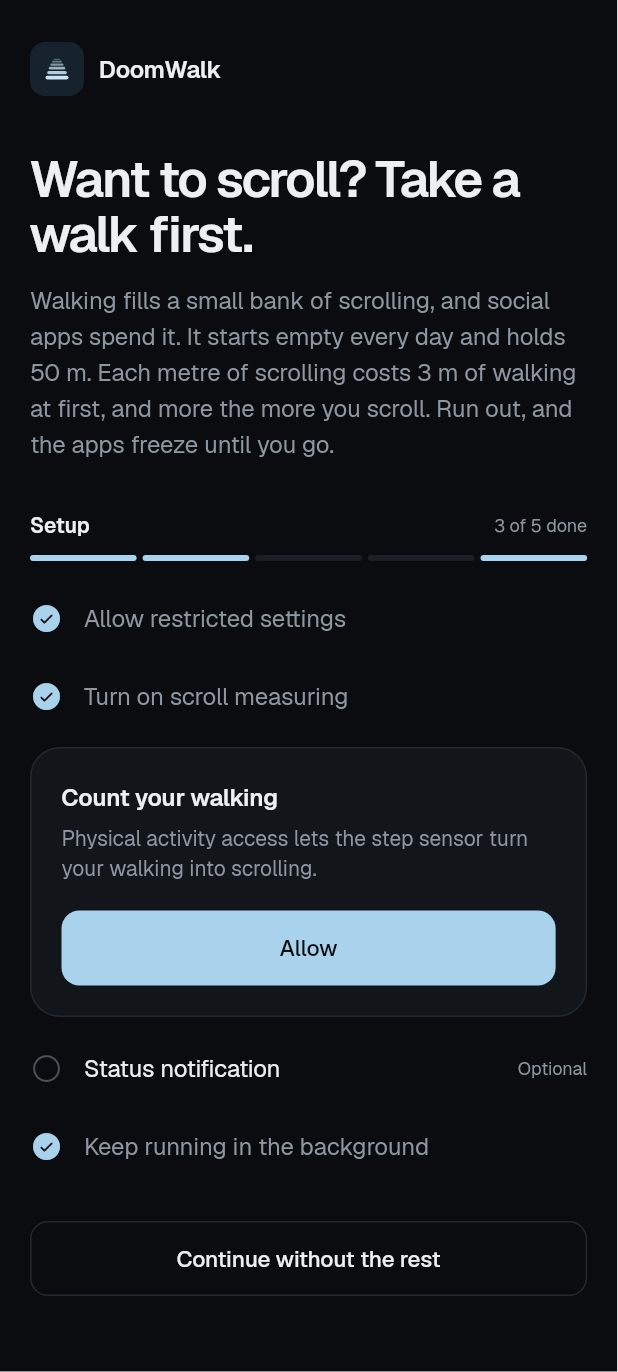
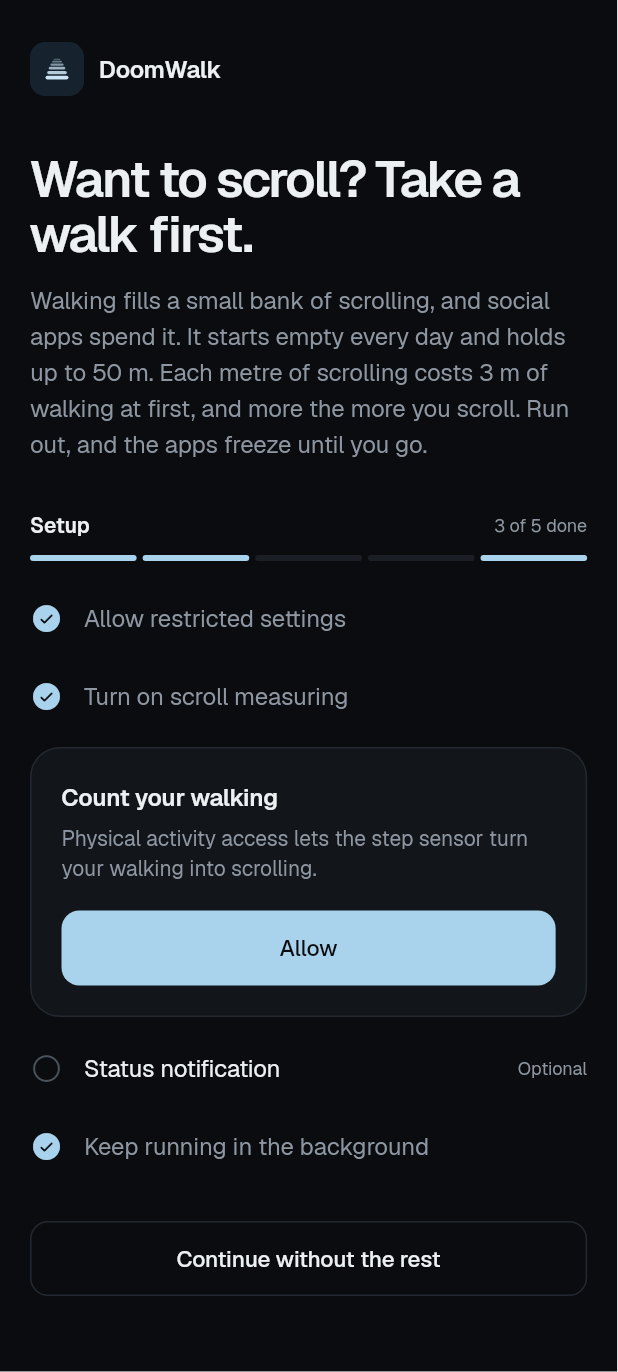
App copy: the bank holds up to the cap
Claude-Session: https://claude.ai/code/session_01GqksnMMaqzuhLtbB8jWPgR

Changed region(s): [[0.0615, 0.2449, 0.9223, 0.3367]]

diff --git a/lib/ui/onboarding_screen.dart b/lib/ui/onboarding_screen.dart
@@ -187,7 +187,7 @@ class _OnboardingScreenState extends ConsumerState<OnboardingScreen> with Widget
             const SizedBox(height: 14),
             Text(
               'Walking fills a small bank of scrolling, and social apps spend it. It starts empty every day and '
-              'holds ${formatRound(_c.bankCapM)}. Each metre of scrolling costs ${formatRound(_c.config.startPrice)} '
+              'holds up to ${formatRound(_c.bankCapM)}. Each metre of scrolling costs ${formatRound(_c.config.startPrice)} '
               'of walking at first, and more the more you scroll. Run out, and the apps freeze until you go.',
               style: t.bodyLarge?.copyWith(color: context.colors.muted),
             ),

diff --git a/lib/ui/home_screen.dart b/lib/ui/home_screen.dart
@@ -624,7 +624,7 @@ class LedgerView extends StatelessWidget {
       children: [
         Text('How it works', style: t.titleLarge),
         const SizedBox(height: 8),
-        rule(Ph.footprints, 'Walking fills your bank. It starts empty each day and holds ${formatRound(cfg.bankCapM)}.'),
+        rule(Ph.footprints, 'Walking fills your bank. It starts empty each day and holds up to ${formatRound(cfg.bankCapM)}.'),
         rule(Ph.squaresFour, 'Scrolling spends it. When it\'s empty, apps freeze until you walk.'),
         rule(Ph.lightning, 'The more you scroll today, the more walking each metre costs:'),
         const SizedBox(height: 4),

diff --git a/lib/ui/intro_stories.dart b/lib/ui/intro_stories.dart
@@ -241,7 +241,7 @@ List<_Slide> _buildSlides(WalletConfig c) {
     _Slide(
       title: 'Walking fills a small bank',
       body:
-          'It starts empty every day and holds $cap of scrolling, at $start from the first step: '
+          'It starts empty every day and holds up to $cap of scrolling, at $start from the first step: '
           '${formatRound(c.startPrice).replaceAll(' ', '\u00A0')} walked per metre. Once it\'s full, walking '
           'adds nothing, so a long commute can\'t buy a day of scrolling.',
       visual: _BankVisual(
